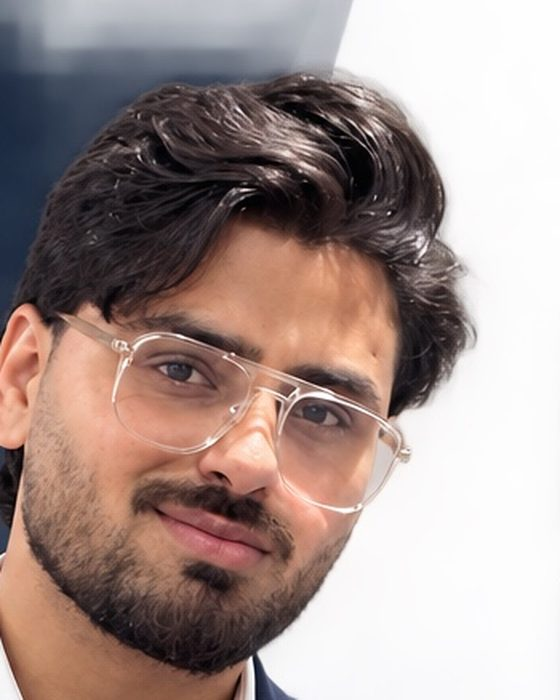
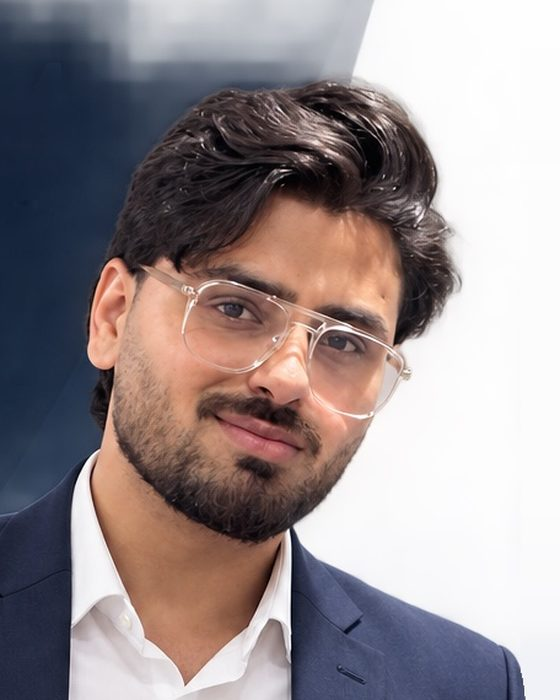
About: reframe Amit Raj Saraswat's portrait so the head is not cut off
The old crop was squeezed between the poster's script lettering (ending at
x=321) and its stat tiles (starting at x=690), which clipped the ear and put
the face against the left edge. The box is now a normal head-and-shoulders
4:5 frame centred on the head (262,30)-(718,600), and a retouch step in
prepare_about_images.py paints out what that takes in: the lettering is
filled from the surrounding navy blur, the tile edges and heading from the
white backdrop, leaving the jacket untouched. The other five portraits
rebuild byte-identical.

diff --git a/index.html b/index.html
@@ -421,7 +421,7 @@
                 <div class="about-grid-lead">
                     <article class="about-card tilt-card">
                         <div class="about-photo-frame">
-                            <img class="about-photo" src="images/amit-raj-saraswat.jpg?v=20260911" alt="Portrait of Amit Raj Saraswat" width="560" height="700" loading="lazy" decoding="async">
+                            <img class="about-photo" src="images/amit-raj-saraswat.jpg?v=20260914" alt="Portrait of Amit Raj Saraswat" width="560" height="700" loading="lazy" decoding="async">
                         </div>
                         <div class="about-role">Design &amp; development</div>
                         <h3 class="about-name">Amit Raj Saraswat</h3>

diff --git a/tools/prepare_about_images.py b/tools/prepare_about_images.py
@@ -8,9 +8,12 @@ web-sized portrait and writes a progressive JPEG. Re-runnable: it always rebuild
 from the sources, so a crop box can be edited and the script simply run again.
 
 The Amit source is a marketing poster ("Research Innovate Build" plus a column of
-stat tiles). The crop removes that furniture at the pixel level rather than hiding
-it with CSS, so the shipped asset carries no baked-in text — the same figures are
-rendered as live cards on the page instead.
+stat tiles). The lettering ends just short of his ear and the tiles begin just past
+his hair, so a crop that avoids both clips the head. Instead the crop is widened to
+a normal head-and-shoulders frame and the furniture inside it is painted out: the
+lettering is filled from the surrounding navy blur, the tile edges and heading from
+the white backdrop. The shipped asset carries no baked-in text — the same figures
+are rendered as live cards on the page instead. Retouching needs numpy.
 
 Crop boxes are (left, top, right, bottom) in source pixels.
 """
@@ -25,7 +28,7 @@ except ImportError:
 SRC_DIR = os.path.join(os.path.expanduser("~"), "Downloads")
 OUT_DIR = os.path.join(os.path.dirname(os.path.abspath(__file__)), "..", "images")
 
-# name -> (source file, crop box, output size)
+# name -> (source file, crop box, output size[, retouch function name])
 
 # Every box is 4:5, matching the card frame, so the browser never crops a second
 # time and all three portraits share one head-and-shoulders framing.
@@ -37,11 +40,12 @@ JOBS = {
     ),
     "amit-raj-saraswat.jpg": (
         "Amit raj saraswat.jpeg",
-        # 1024x1536 poster. The script lettering runs to about x=324 and the divider before
-        # the stat column sits near x=696, so the box is held between 340 and 690 to keep
-        # both out of frame entirely.
-        (340, 50, 690, 488),
+        # 1024x1536 poster. Head spans about x 335-640, y 95-465; the script lettering
+        # reaches x=321 and the stat tiles start at x=690. The 456 x 570 box is centred
+        # on the head and retouch_poster() paints out what it takes in from either side.
+        (262, 30, 718, 600),
         (560, 700),
+        "retouch_poster",
     ),
     "dr-ritu-aggarwal.jpg": (
         "Dr. Ritu Aggarwal.png",
@@ -70,13 +74,84 @@ JOBS = {
 }
 
 
-def build(out_name, src_name, box, size):
+def _blur(img, r):
+    """Approximate Gaussian blur of a float array (three box passes per axis)."""
+    import numpy as np
+
+    def box(a, k, axis):
+        pad = [(0, 0)] * a.ndim
+        pad[axis] = (k + 1, k)
+        c = np.cumsum(np.pad(a, pad, mode="edge"), axis=axis)
+        n = c.shape[axis]
+        return (np.take(c, np.arange(2 * k + 1, n), axis=axis) -
+                np.take(c, np.arange(0, n - 2 * k - 1), axis=axis)) / (2 * k + 1)
+
+    k = max(1, int(r / 1.7))
+    for _ in range(3):
+        img = box(box(img, k, 0), k, 1)
+    return img
+
+
+def retouch_poster(im, box):
+    """Paint the poster's lettering (left) and stat tiles (right) out of the crop box."""
+    import numpy as np
+    from PIL import ImageFilter
+
+    a = np.asarray(im.convert("RGB")).astype(np.float64)
+    h, w = a.shape[:2]
+    lum = a @ np.array([0.299, 0.587, 0.114])
+    rows = np.arange(h)[:, None]
+
+    # Left: script lettering and the gold rule on dark navy. A stroke is anything
+    # clearly brighter than the local median; strokes are grown a little to catch
+    # their anti-aliased edges, then filled from nearby navy by normalised
+    # convolution. Only the navy panel is sampled, never the face.
+    region = np.zeros((h, w), bool)
+    region[50:410, box[0] - 30:330] = True
+    median = np.asarray(Image.fromarray(lum.astype(np.uint8)).filter(ImageFilter.MedianFilter(31)), dtype=np.float64)
+    hole = region & (lum > median + 18)
+    hole = region & (np.asarray(Image.fromarray((hole * 255).astype(np.uint8)).filter(ImageFilter.MaxFilter(9))) > 0)
+    known = np.zeros((h, w), bool)
+    known[0:460, 0:330] = True
+    known &= ~hole
+    for step in range(1, 7):
+        wt = _blur(known.astype(np.float64), 14 * step)
+        for c in range(3):
+            est = _blur(a[..., c] * known, 14 * step) / np.maximum(wt, 1e-4)
+            a[..., c] = np.where(hole & ~known & (wt > 1e-4), est, a[..., c])
+        known |= hole & (wt > 0.05)
+
+    # Right: tile edges, the heading's first letters and icon tips on a near-white
+    # backdrop. The backdrop is estimated per row from bright pixels just left of
+    # the tiles, carried across rows where there are none, and painted over
+    # everything at x >= 686 except the jacket.
+    band, bright = a[:, 655:685, :], lum[:, 655:685] > 238
+    white = np.full((h, 3), np.nan)
+    for y in range(h):
+        if bright[y].sum() >= 4:
+            white[y] = band[y][bright[y]].mean(axis=0)
+    have = np.where(~np.isnan(white[:, 0]))[0]
+    for c in range(3):
+        white[:, c] = np.interp(np.arange(h), have, white[have, c])
+        white[:, c] = _blur(np.tile(white[:, c:c + 1], (1, 8)), 8)[:, 4]
+    paint = np.zeros((h, w), bool)
+    paint[0:box[3] + 2, 686:box[2] + 2] = True
+    paint &= ~((rows >= 530) & (lum < 120))
+    for x in range(686, box[2] + 2):
+        a[paint[:, x], x, :] = white[paint[:, x]]
+
+    return Image.fromarray(np.clip(a, 0, 255).astype(np.uint8))
+
+
+def build(out_name, src_name, box, size, retouch=None):
     src_path = src_name if os.path.isabs(src_name) else os.path.join(SRC_DIR, src_name)
     if not os.path.exists(src_path):
         print("  MISSING source: %s" % src_path)
         return False
     with Image.open(src_path) as im:
         original = im.size
+        if retouch:
+            im = globals()[retouch](im, box)
         if box is None:                                   # centre the largest 4:5 box
             w, h = im.size
             target = size[0] / float(size[1])
@@ -99,7 +174,7 @@ def build(out_name, src_name, box, size):
 def main():
     os.makedirs(OUT_DIR, exist_ok=True)
     print("writing to %s" % os.path.normpath(OUT_DIR))
-    ok = sum(build(out, src, box, size) for out, (src, box, size) in JOBS.items())
+    ok = sum(build(out, *job) for out, job in JOBS.items())
     print("%d of %d images written" % (ok, len(JOBS)))
     return 0 if ok == len(JOBS) else 1
 
